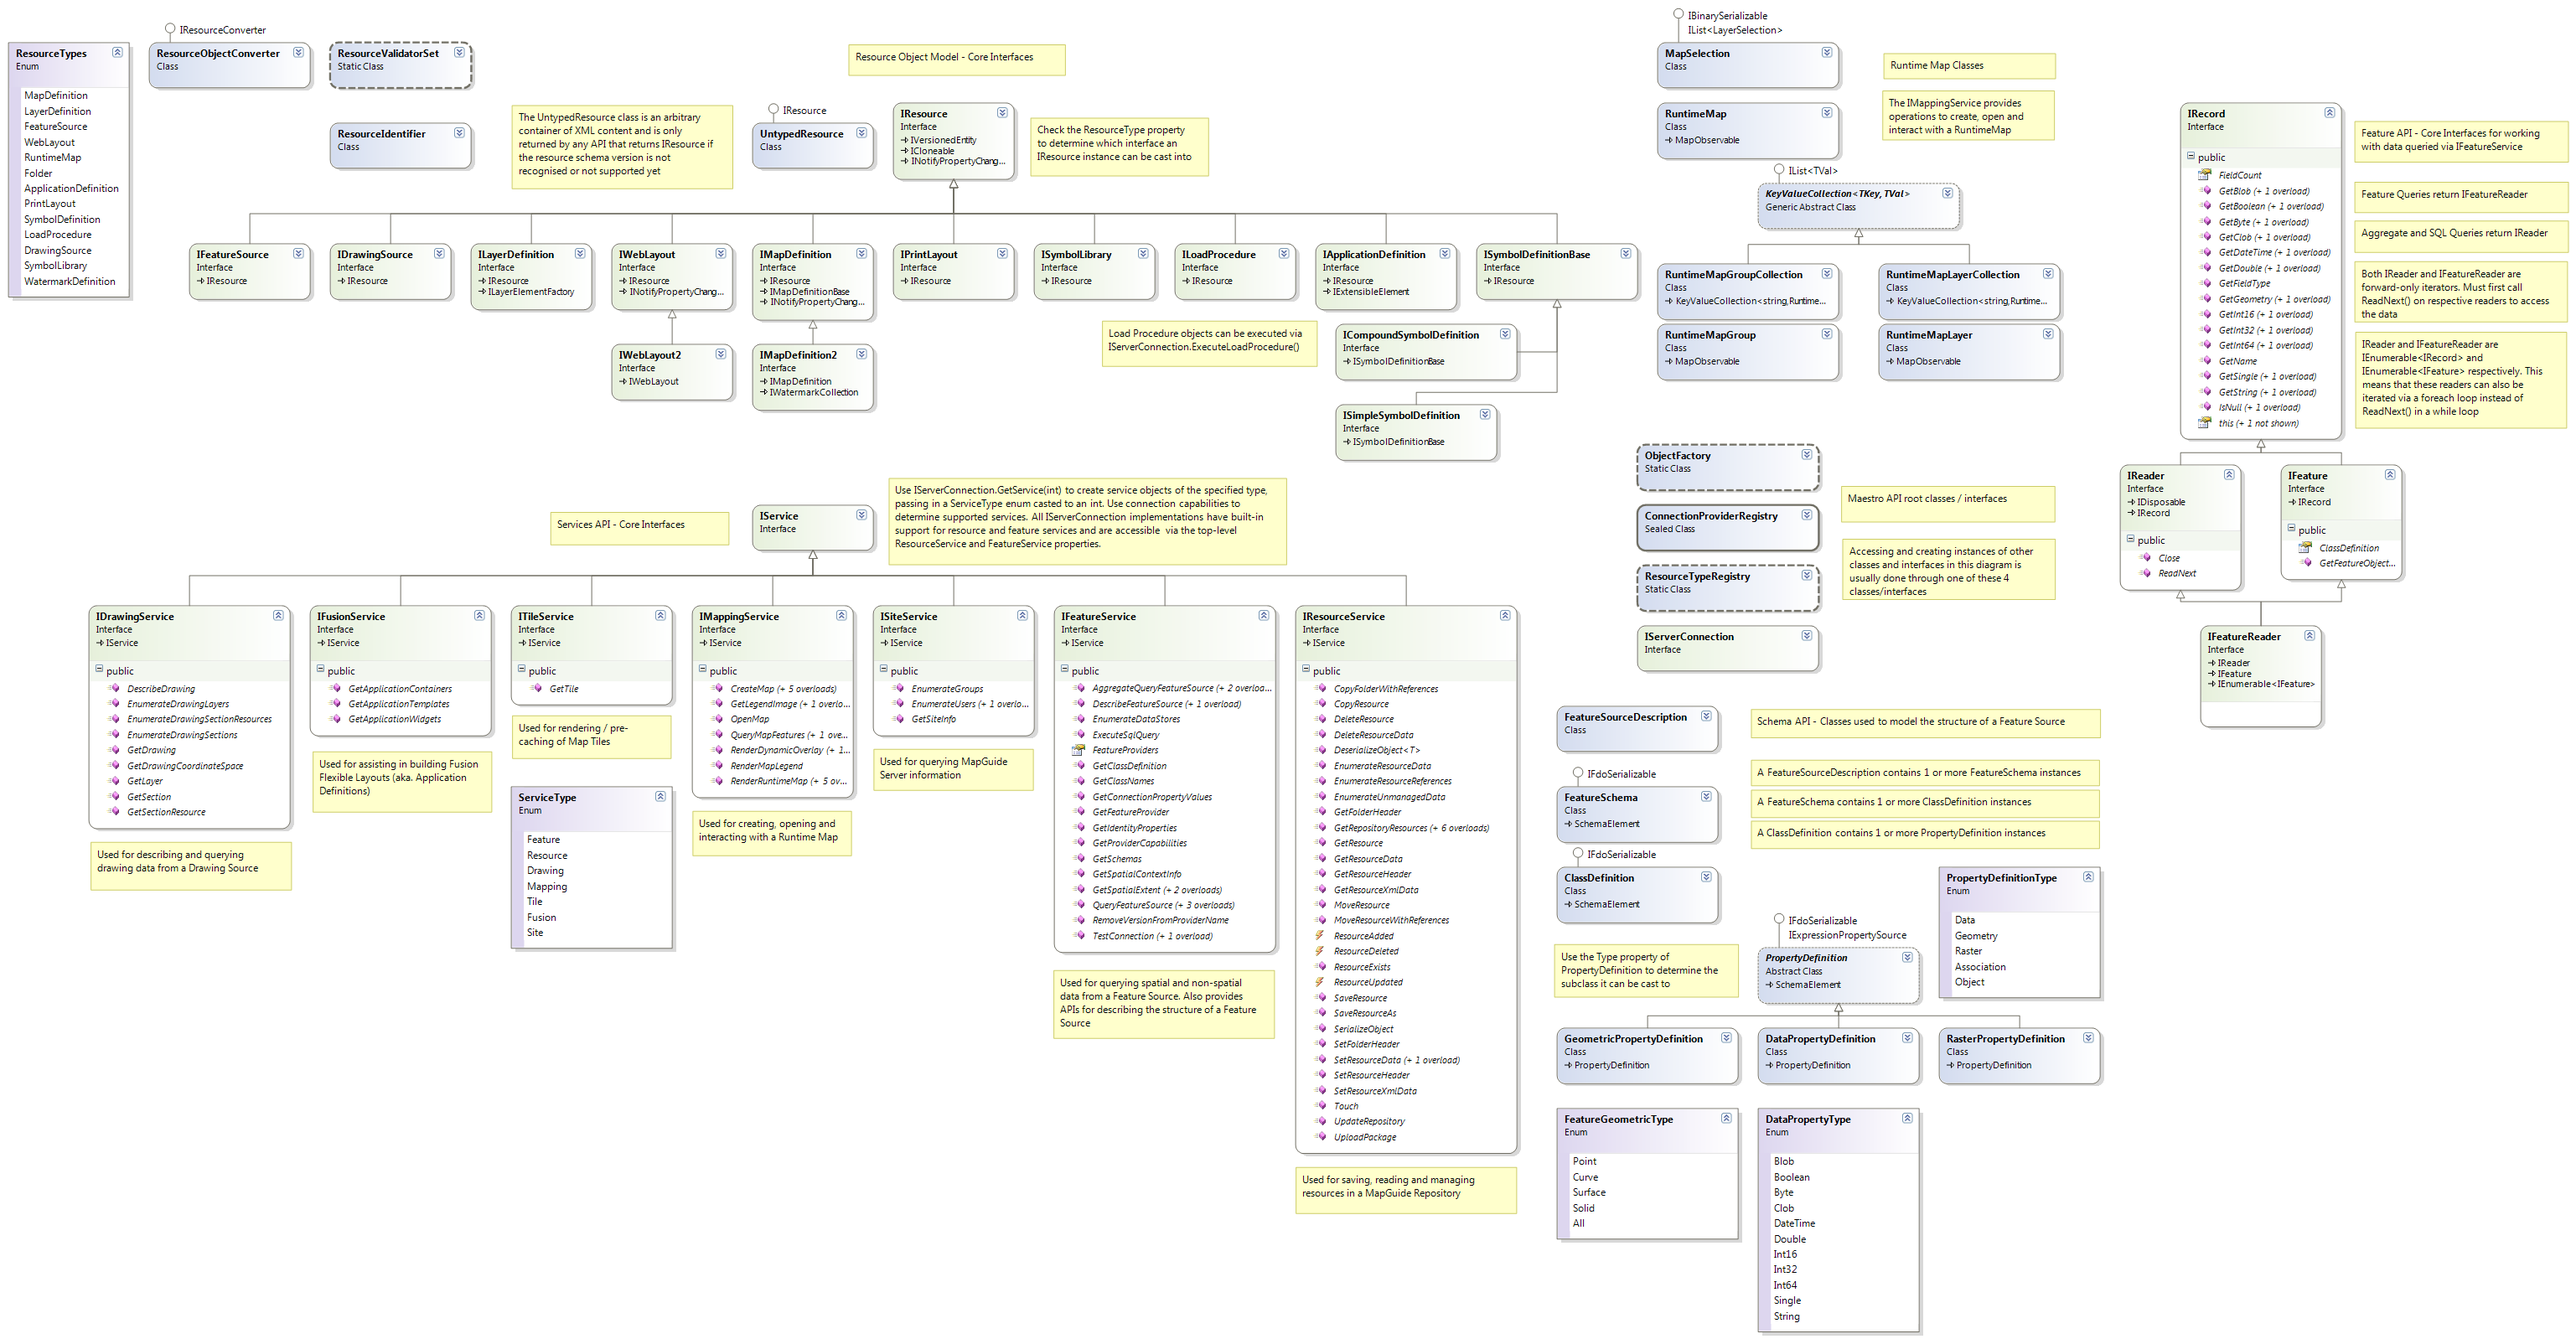
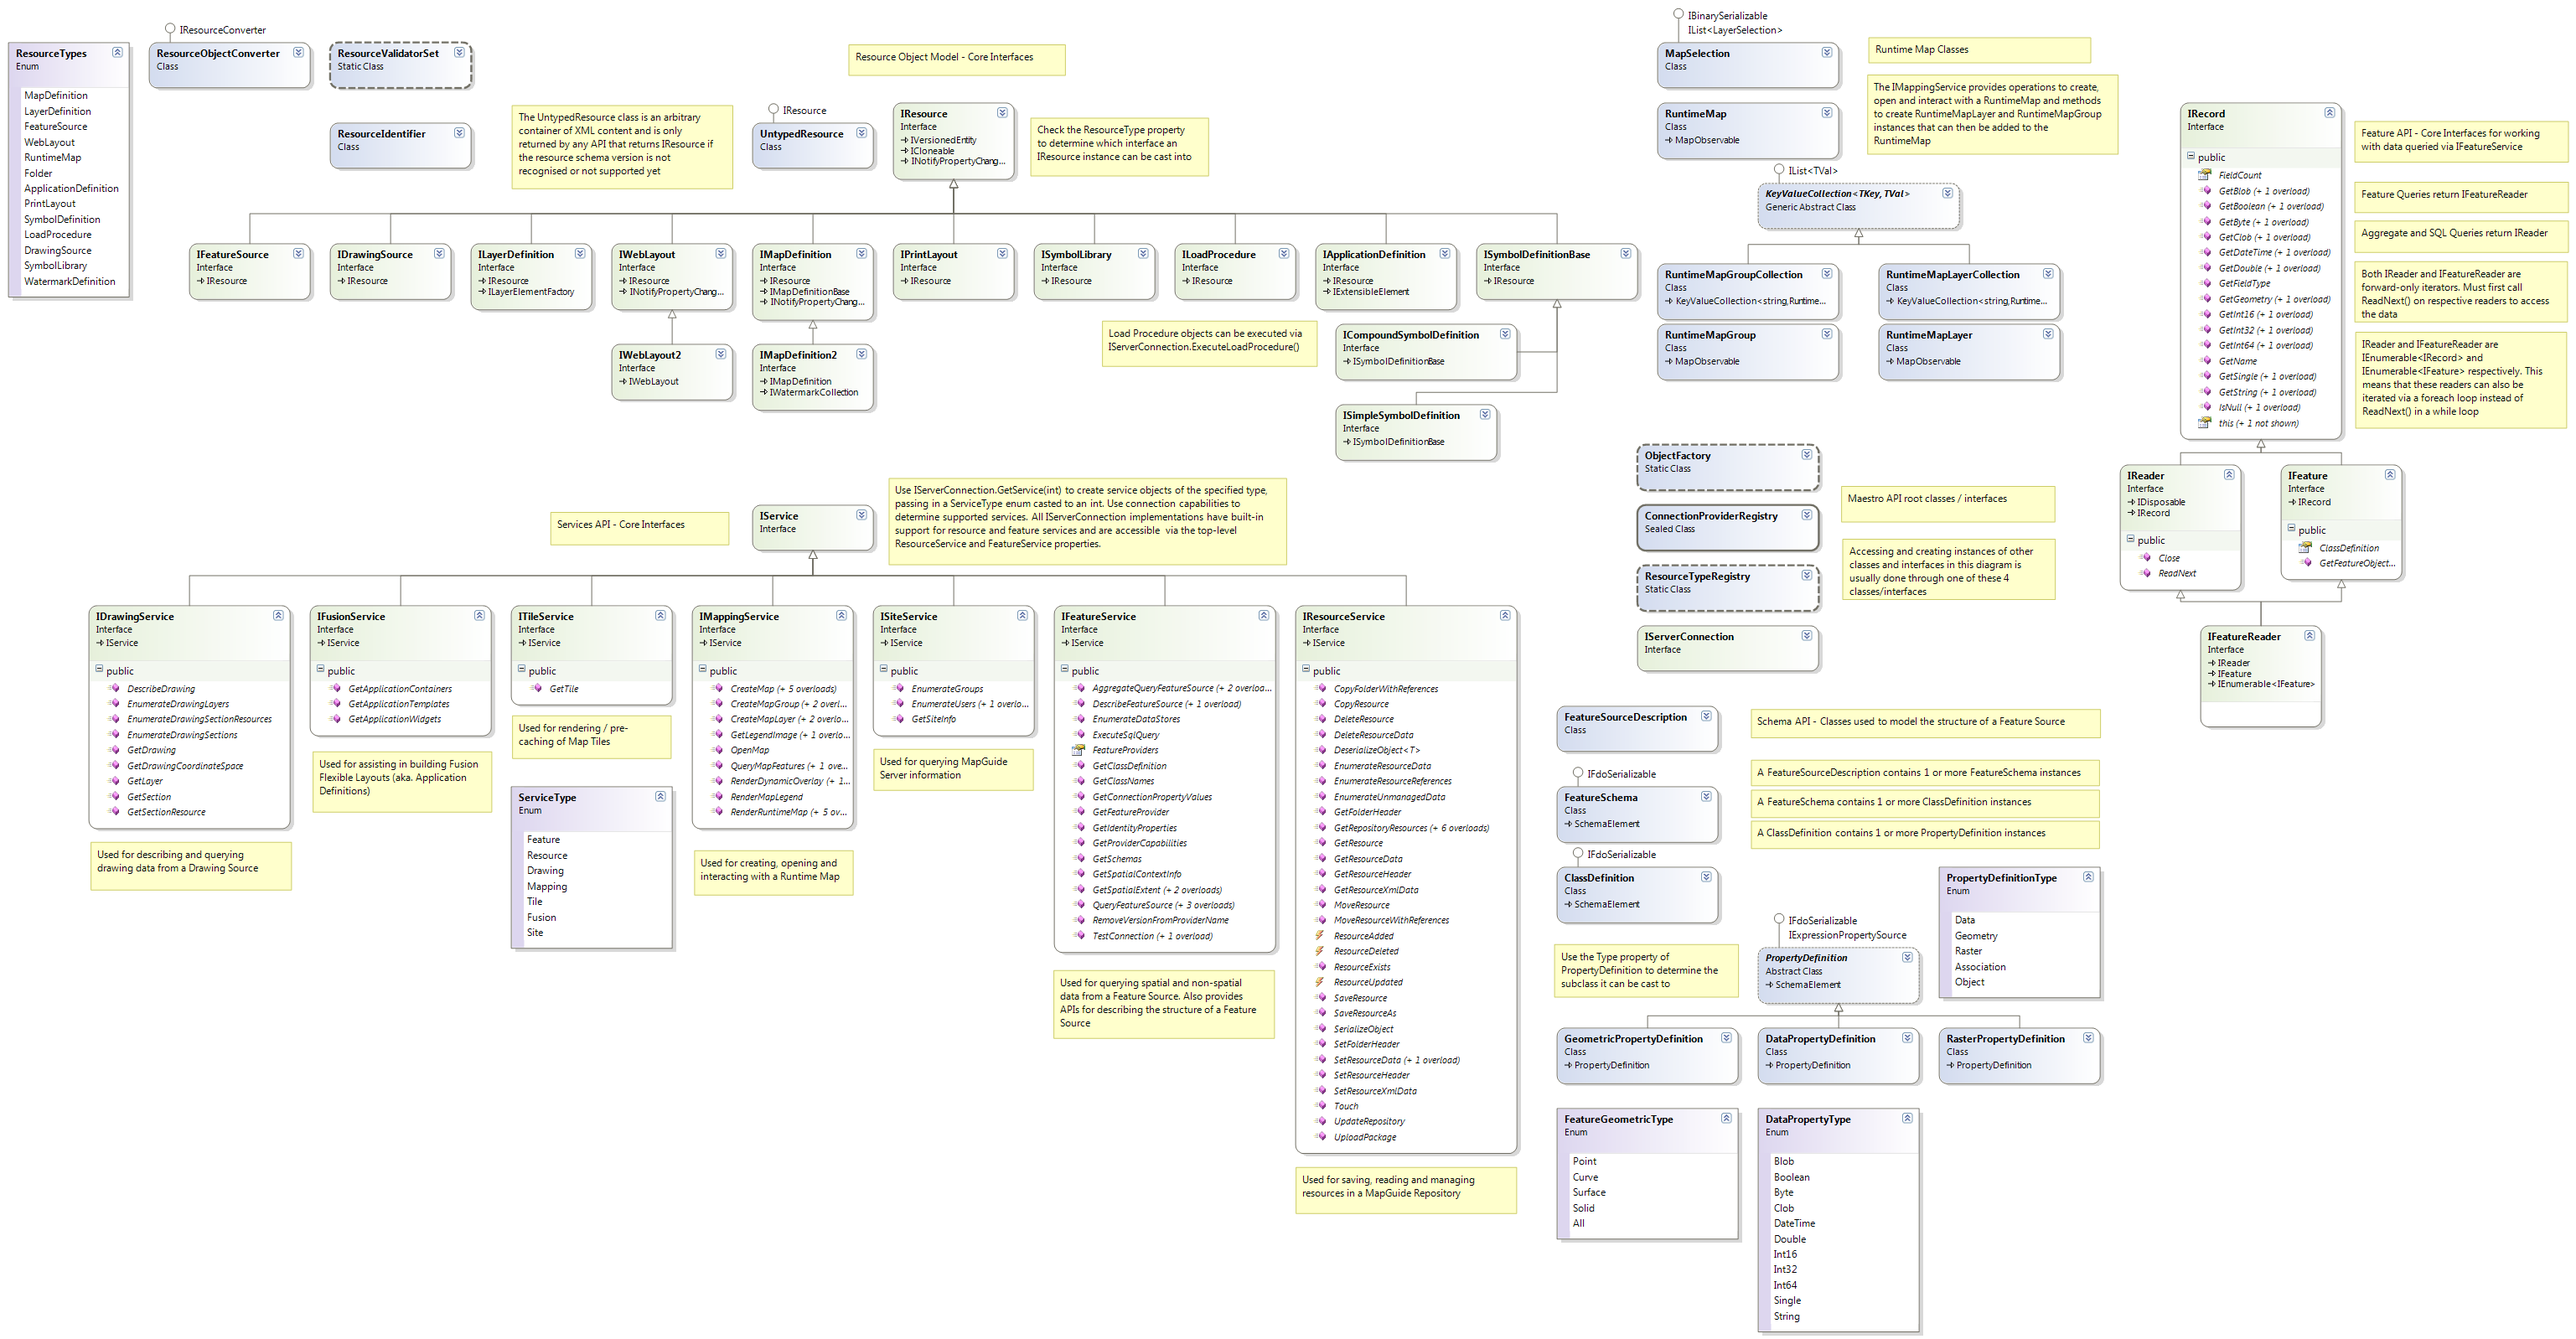
Remove unnecessary try/catch in Utility.CopyStream. Also some more API documentation updates (#1319)
git-svn-id: http://svn.osgeo.org/mapguide/trunk/Tools/Maestro@6324 a442ad82-b40c-0410-ae44-e6d7bd6e4a36

Changed region(s): [[0.7183, 0.0, 0.8432, 0.1227], [0.2498, 0.5213, 0.3435, 0.6746]]

diff --git a/OSGeo.MapGuide.MaestroAPI/PlatformConnectionBase.cs b/OSGeo.MapGuide.MaestroAPI/PlatformConnectionBase.cs
@@ -1729,6 +1729,7 @@ namespace OSGeo.MapGuide.MaestroAPI
         /// <returns></returns>
         public virtual RuntimeMapGroup CreateMapGroup(RuntimeMap parent, string name)
         {
+            //TODO: Review when we split implementations
             return new RuntimeMapGroup(parent, name);
         }
 
@@ -1740,6 +1741,7 @@ namespace OSGeo.MapGuide.MaestroAPI
         /// <returns></returns>
         public virtual RuntimeMapGroup CreateMapGroup(RuntimeMap parent, IBaseMapGroup group)
         {
+            //TODO: Review when we split implementations
             return new RuntimeMapGroup(parent, group);
         }
 
@@ -1751,6 +1753,7 @@ namespace OSGeo.MapGuide.MaestroAPI
         /// <returns></returns>
         public virtual RuntimeMapGroup CreateMapGroup(RuntimeMap parent, IMapLayerGroup group)
         {
+            //TODO: Review when we split implementations
             return new RuntimeMapGroup(parent, group);
         }
 

diff --git a/OSGeo.MapGuide.MaestroAPI/Mapping/RuntimeMapGroup.cs b/OSGeo.MapGuide.MaestroAPI/Mapping/RuntimeMapGroup.cs
@@ -26,7 +26,8 @@ using OSGeo.MapGuide.MaestroAPI.Serialization;
 namespace OSGeo.MapGuide.MaestroAPI.Mapping
 {
     /// <summary>
-    /// Represents a group of layers in a runtime map
+    /// Represents a group of layers in a runtime map. Use <see cref="M:OSGeo.MapGuide.MaestroAPI.Services.IMappingService.CreateMapGroup(OSGeo.MapGuide.MaestroAPI.Mapping.RuntimeMap,OSGeo.MapGuide.ObjectModels.MapDefinition.IMapLayerGroup)"/> to create
+    /// instances of this class.
     /// </summary>
     public class RuntimeMapGroup : MapObservable
     {

diff --git a/OSGeo.MapGuide.MaestroAPI/Mapping/RuntimeMapLayer.cs b/OSGeo.MapGuide.MaestroAPI/Mapping/RuntimeMapLayer.cs
@@ -60,7 +60,8 @@ namespace OSGeo.MapGuide.MaestroAPI.Mapping
     }
 
     /// <summary>
-    /// Represents a runtime map layer
+    /// Represents a runtime map layer. Use <see cref="M:OSGeo.MapGuide.MaestroAPI.Services.IMappingService.CreateMapLayer(OSGeo.MapGuide.MaestroAPI.Mapping.RuntimeMap,OSGeo.MapGuide.ObjectModels.LayerDefinition.ILayerDefinition)"/> to create
+    /// instances of this class.
     /// </summary>
     public class RuntimeMapLayer : MapObservable
     {

diff --git a/OSGeo.MapGuide.MaestroAPI/Utility.cs b/OSGeo.MapGuide.MaestroAPI/Utility.cs
@@ -273,8 +273,8 @@ namespace OSGeo.MapGuide.MaestroAPI
         public static void CopyStream(System.IO.Stream source, System.IO.Stream target, StreamCopyProgressDelegate callback, long updateFrequence)
         {
             long length = -1;
-            try { length = source.Length; }
-            catch { }
+            if (source.CanSeek)
+                length = source.Length;
 
             long copied = 0;
             long freqCount = 0;
